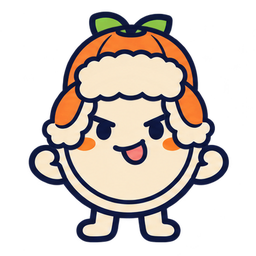
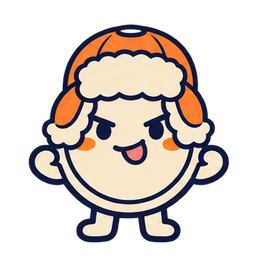
fix: 모자를 쓰면 새싹 숨기기

Changed region(s): [[0.3438, 0.0312, 0.6875, 0.1562]]

diff --git a/app/src/components/Mascot.tsx b/app/src/components/Mascot.tsx
@@ -17,6 +17,8 @@ const LAYERS: Record<string, number> = {
   banker: require('@/assets/images/closet/banker.png'),
 };
 const BASE = require('@/assets/images/closet/base.png');
+// 모자를 쓰면 새싹이 모자 뒤로 비치지 않도록 새싹 없는 몸을 쓴다
+const BASE_NO_SPROUT = require('@/assets/images/closet/base-nosprout.png');
 
 type Props = {
   size: number;
@@ -44,7 +46,7 @@ export function Mascot({ size, outfit, bounceKey = 0, animateLayers = false }: P
 
   return (
     <Animated.View style={[box, bounce]} accessible accessibilityRole="image" accessibilityLabel={describeOutfit(worn)}>
-      <Image source={BASE} style={[styles.layer, box]} contentFit="contain" accessible={false} />
+      <Image source={itemOf(worn.head)?.value ? BASE_NO_SPROUT : BASE} style={[styles.layer, box]} contentFit="contain" accessible={false} />
       {WEAR_SLOTS.map((slot) => {
         const value = itemOf(worn[slot])?.value;
         const src = value ? LAYERS[value] : undefined;
